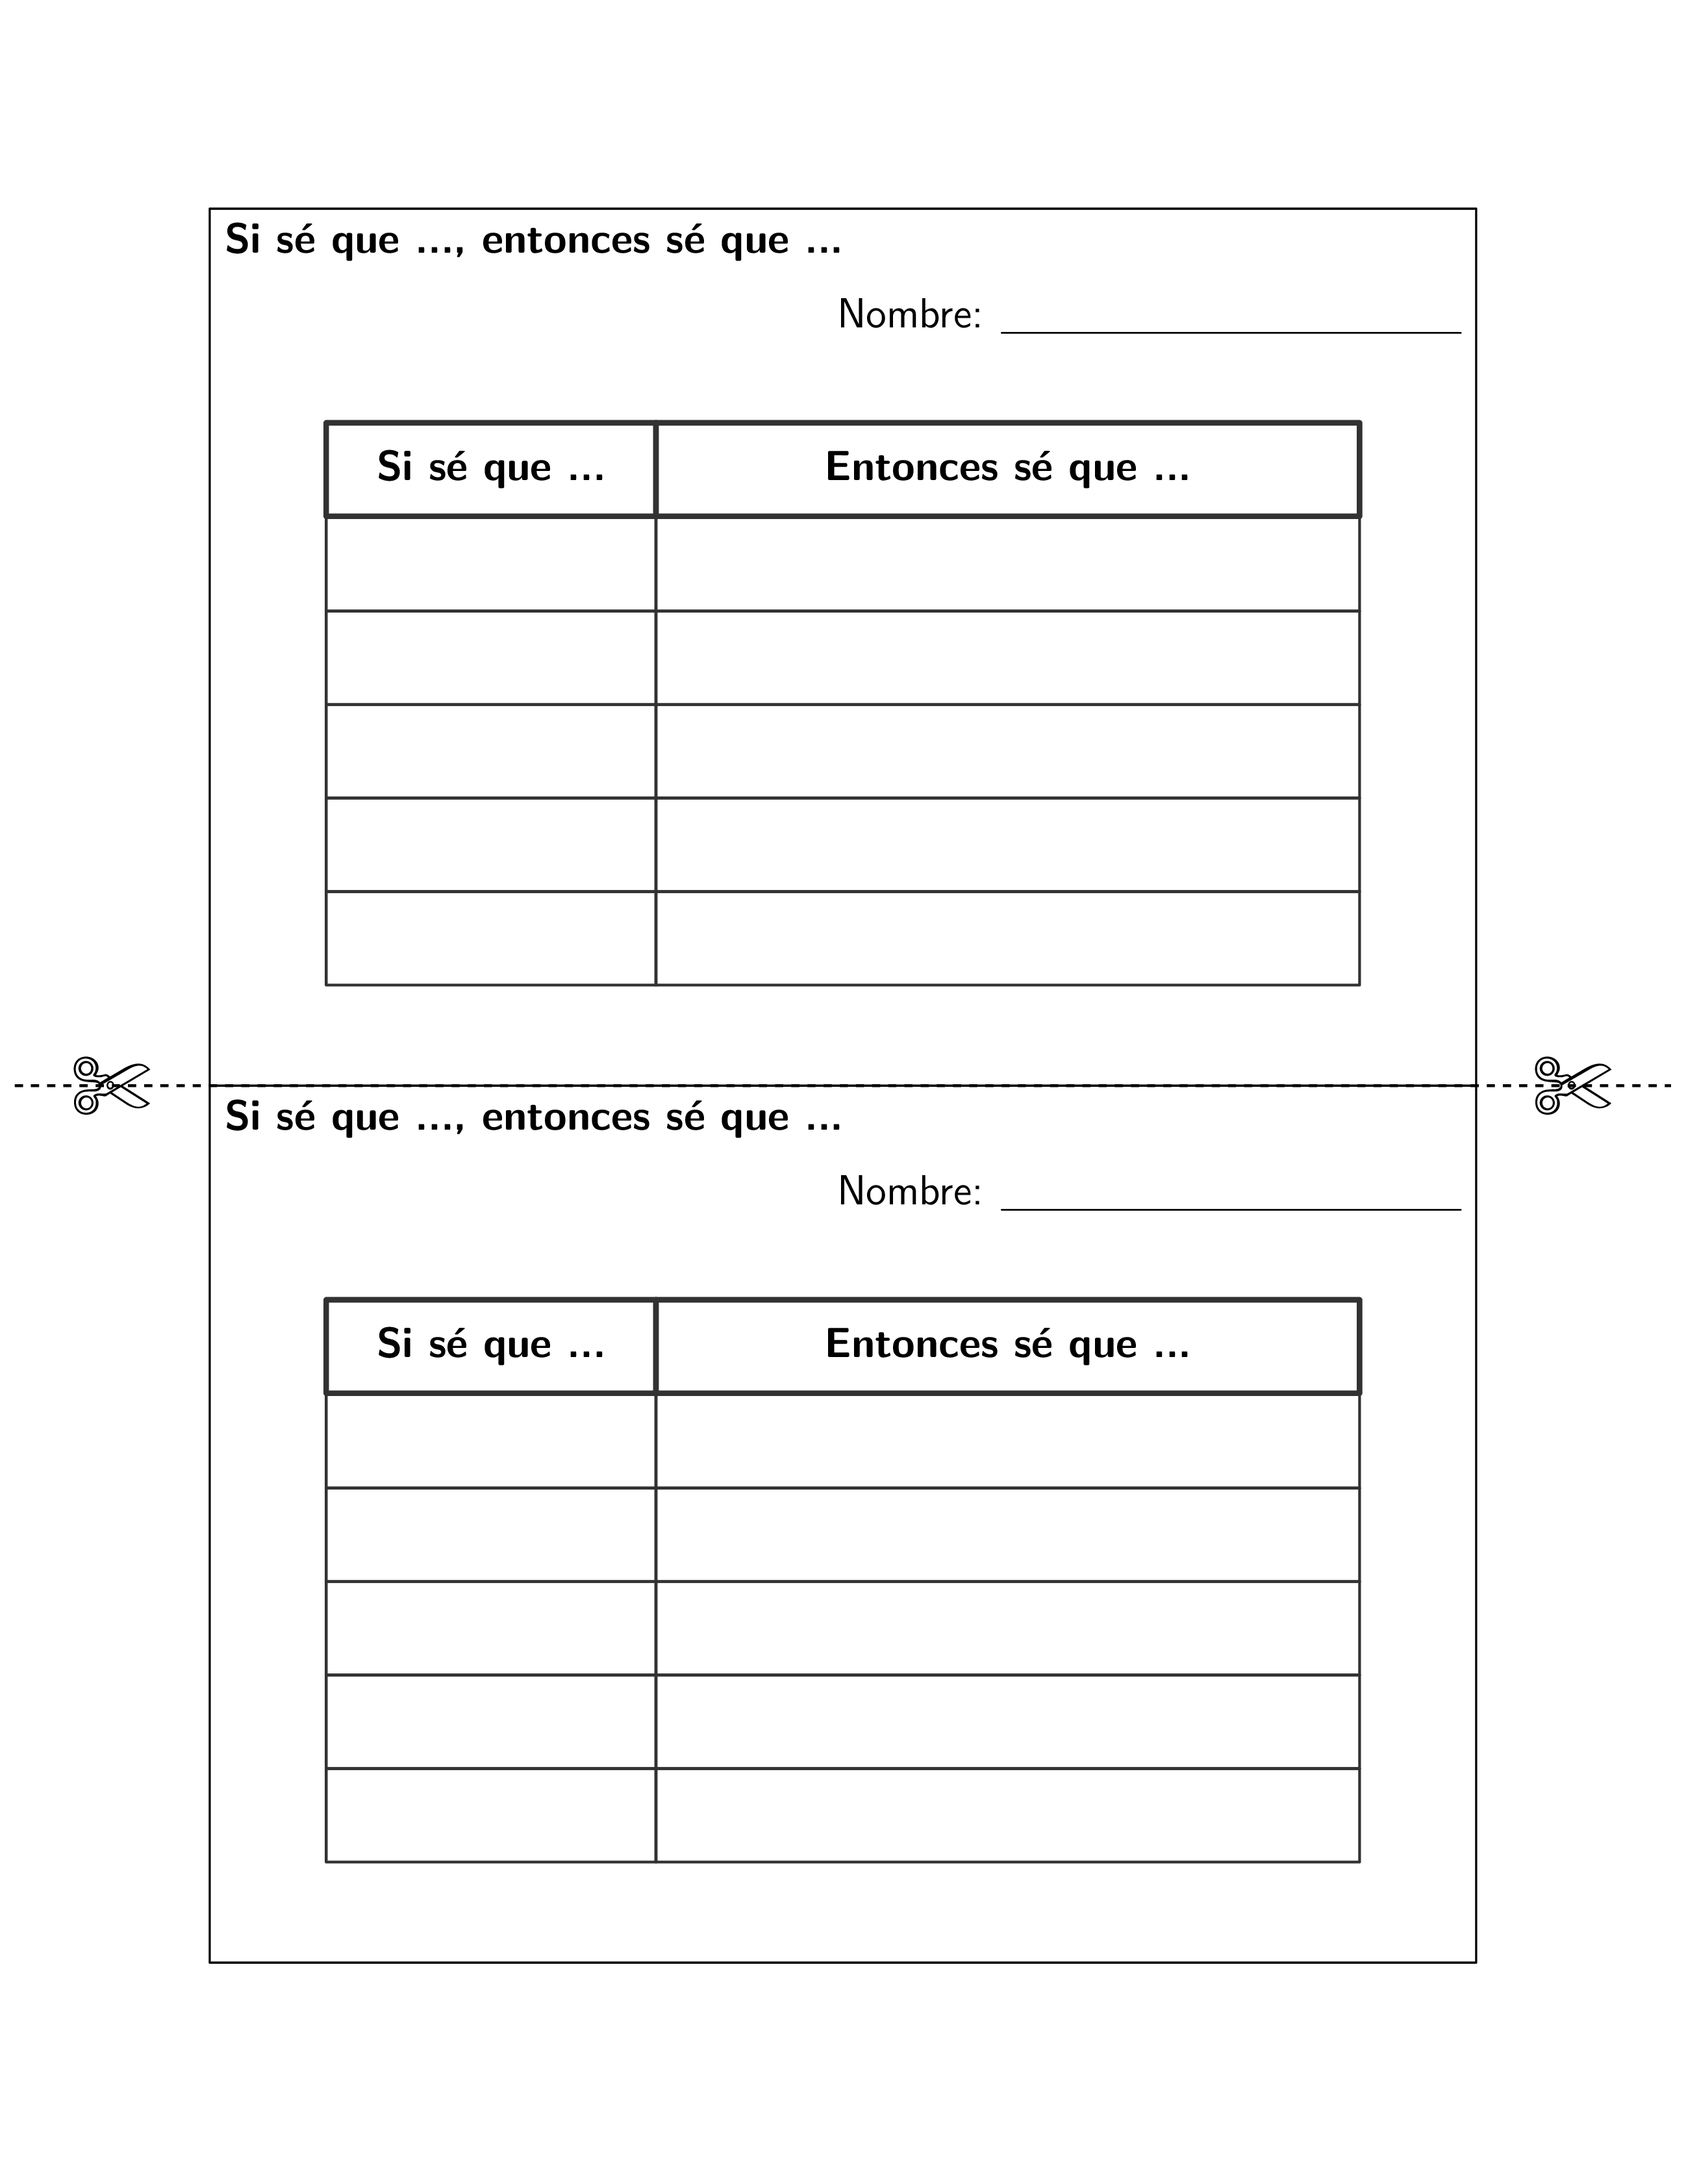
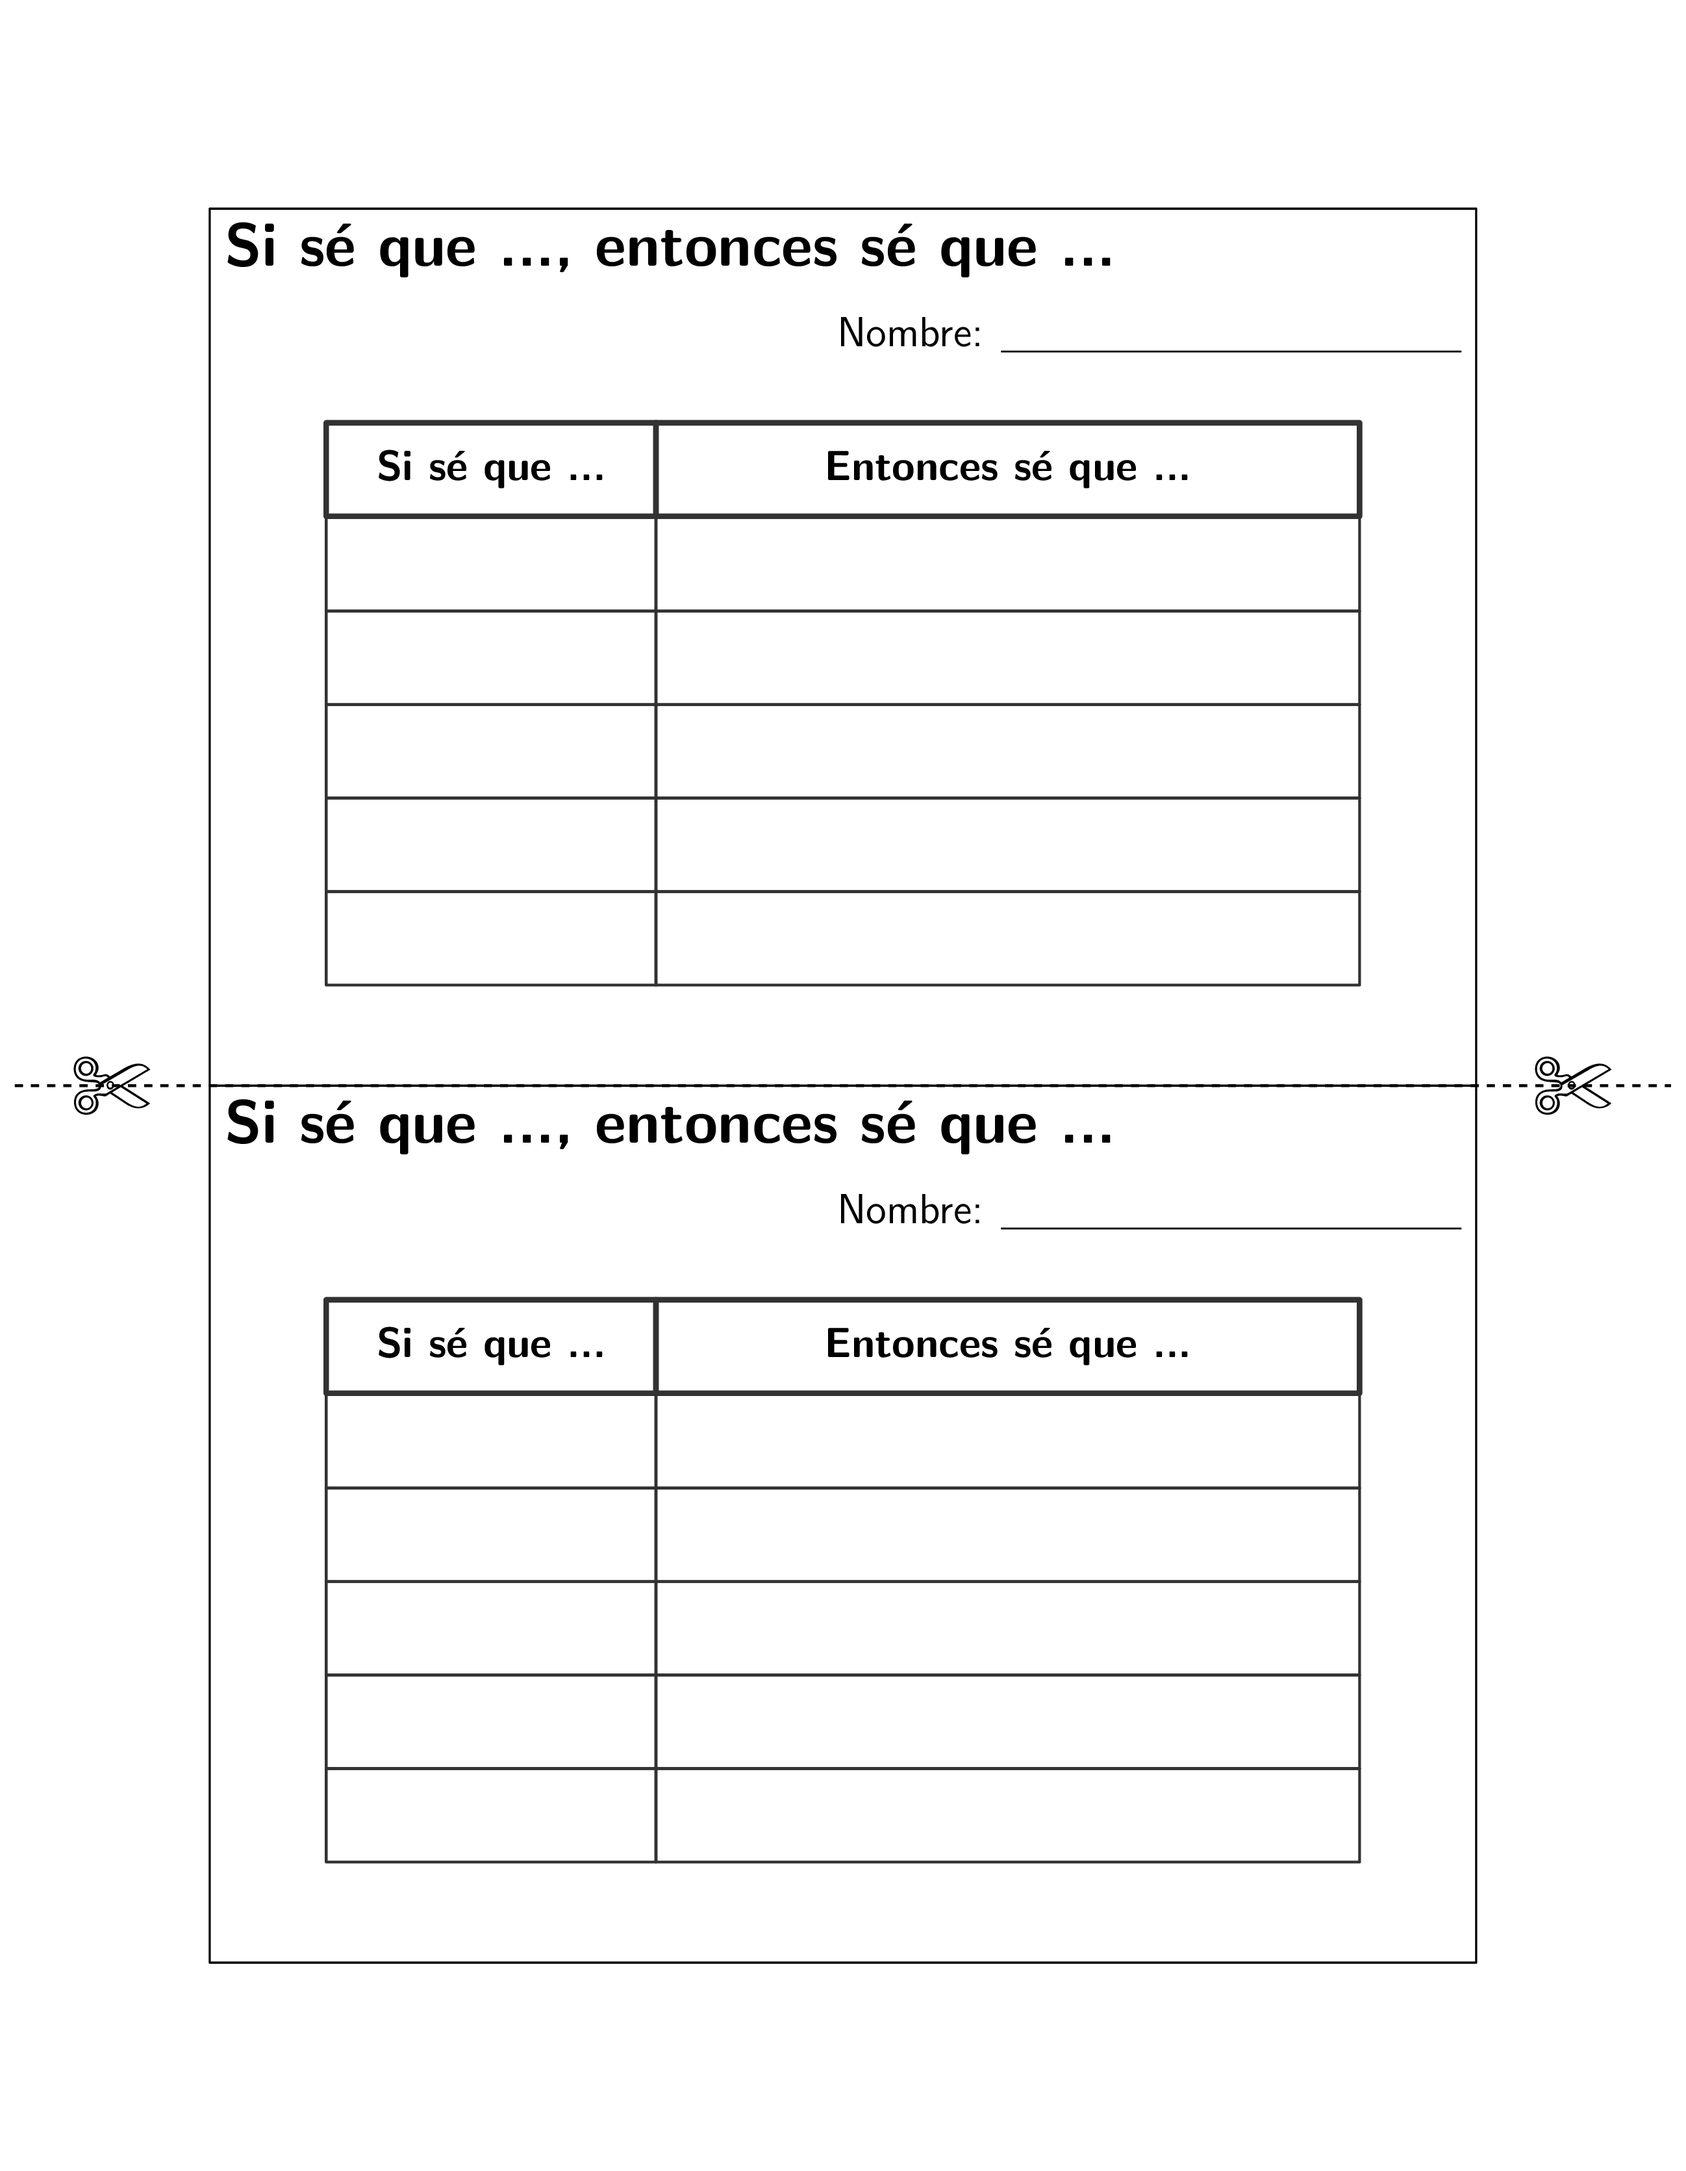
Ajustes BLM

Changed region(s): [[0.1248, 0.4979, 0.624, 0.5601], [0.1248, 0.0934, 0.624, 0.1556]]

diff --git a/source/assets/blm/tikz-source/siSeQueEntoncesSeQue-BLM.tex b/source/assets/blm/tikz-source/siSeQueEntoncesSeQue-BLM.tex
@@ -44,13 +44,13 @@
 % \node[above] at (tableBot.north) {\includegraphics[width=3.5cm]{../../png-source/3.4.D21.S_Sp.png}};
 
 % Add BLM heading to top and bottom
-\node[below right] at (topLeft) {\bf Si sé que ..., entonces sé que ...};
-\node[below right] at (midLeft) {\bf Si sé que ..., entonces sé que ...};
+\node[below right] at (topLeft) {\bf\Large Si sé que ..., entonces sé que ...};
+\node[below right] at (midLeft) {\bf\Large Si sé que ..., entonces sé que ...};
 
 
-% Espacio de nombre
-\node[below left] at ([yshift=-4ex]topRight) {Nombre: \underline{\hspace{6cm}}};
-\node[below left] at ([yshift=-4ex]midRight) {Nombre: \underline{\hspace{6cm}}};
+% Espacio de nombr5
+\node[below left] at ([yshift=-5ex]topRight) {Nombre: \underline{\hspace{6cm}}};
+\node[below left] at ([yshift=-5ex]midRight) {Nombre: \underline{\hspace{6cm}}};
 
 
 

diff --git a/source/assets/blm/tikz-source/enElMercadoAgricola-BLM.tex b/source/assets/blm/tikz-source/enElMercadoAgricola-BLM.tex
@@ -29,11 +29,11 @@
 
 
 % Add BLM heading to top and bottom
-\node[below right, align=left, font=\bf] at (topLeft) {En el mercado agrícola};
+\node[below right] at (topLeft) {\bf\Large En el mercado agrícola};
 
 
 % Espacio de nombre
-\node[below left] at ([yshift=-8pt]topRight) {Nombre: \underline{\hspace{6cm}}};
+\node[below left] at ([yshift=-6ex]topRight) {Nombre: \underline{\hspace{6cm}}};
 
 
 
